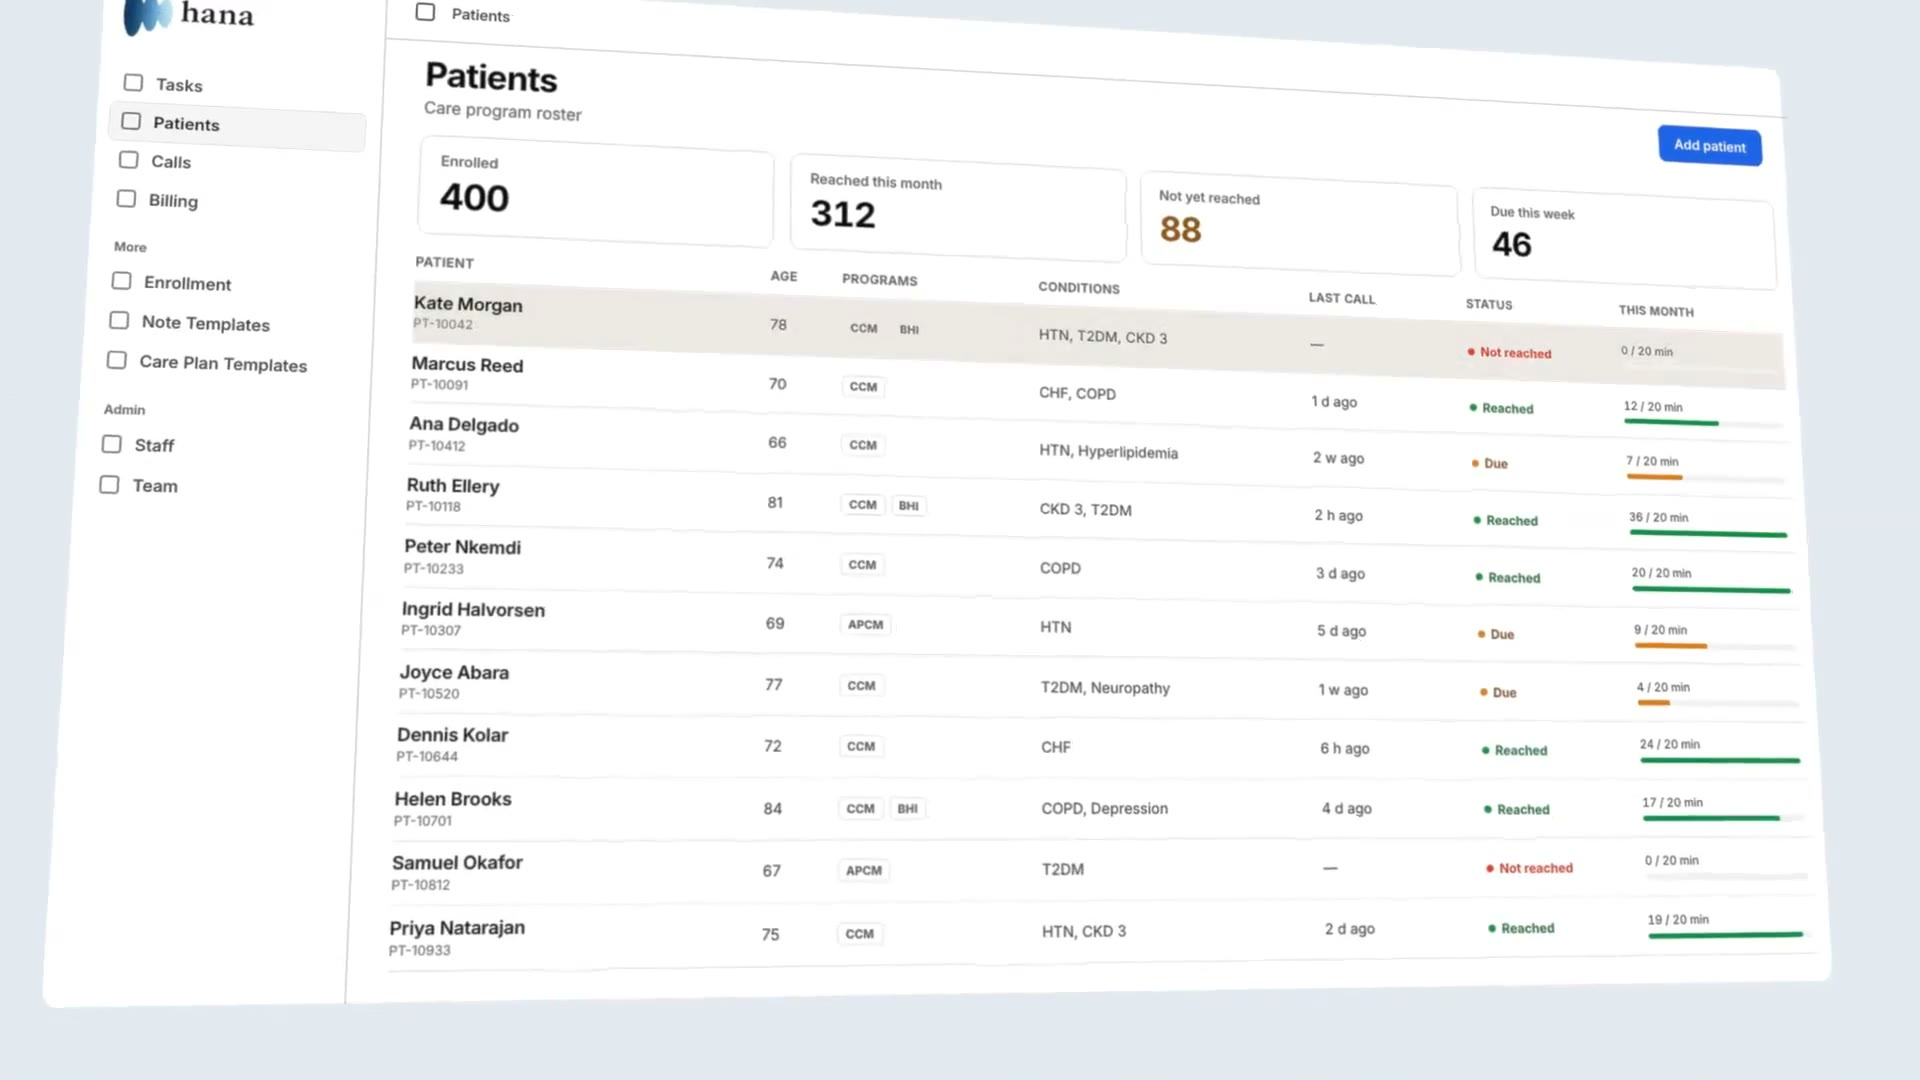
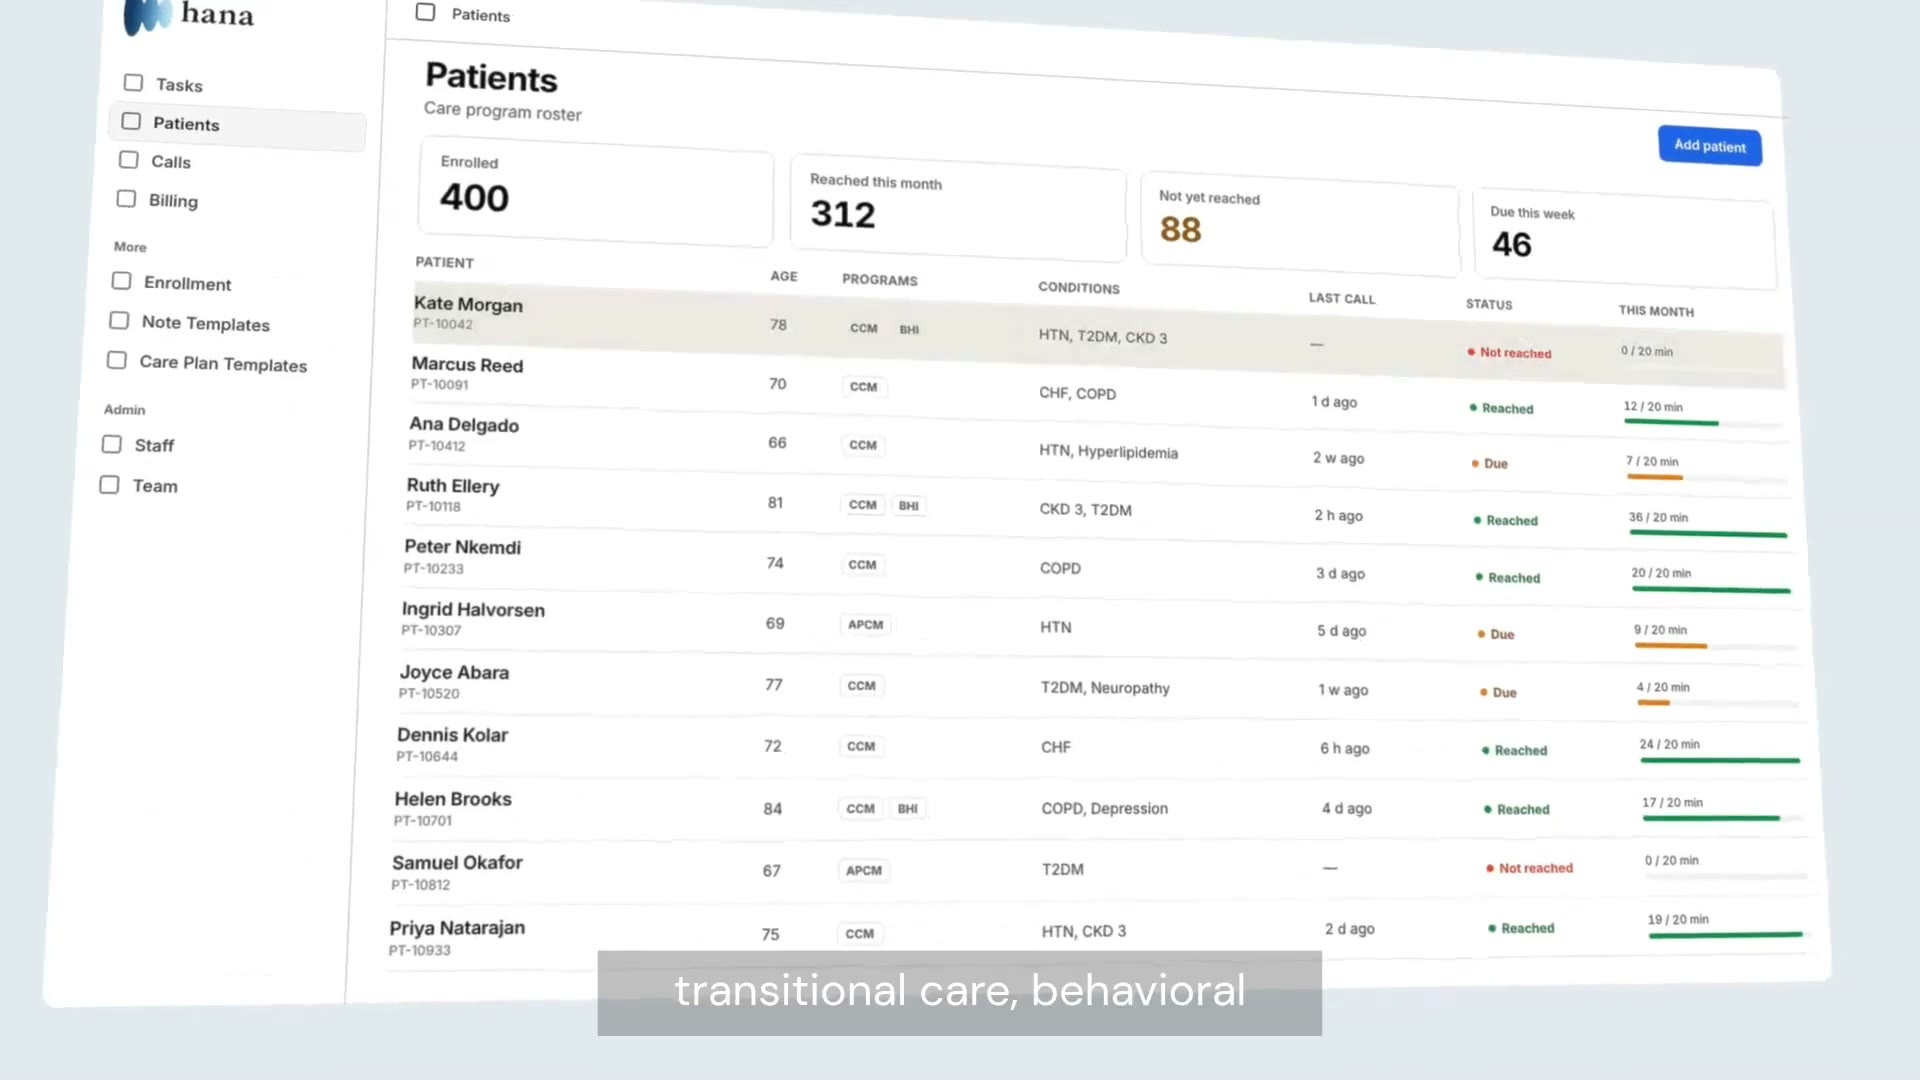
feat(video): muted autoplay on scroll, and the demo moves up under §2
TWO CHANGES ASKED FOR, plus the poster refreshed from the re-encode of the
higher-bitrate master (143MB source -> 16MB at 900kbps, 1080p, text verified
indistinguishable at 4x zoom on the Billing figures).

MOVED §3b -> §2b, directly under WHAT IS HANA. It sat after the loop, which
meant a reader met the three-way comparison, then borrowed proof, then a
diagram, before anything showed them the product. Under §2 the sequence is the
argument and then the evidence for it: here are three ways to run this and ours
is the third, now watch the third one happen. It also moves the only moving
thing on the page from five sections down to 11% of the way in. Grounds still
alternate white / band / white either side of it.

AUTOPLAY IS OPT-IN, MUTED, AND GATED ON SCROLL. The rule was previously "never
autoplays, not even muted", on the grounds that this page is read by compliance
officers in open-plan offices. THAT OBJECTION WAS ABOUT SOUND AND IT STILL
HOLDS -- nothing here ever plays audio unasked. What changed is the footage: the
re-export carries burned-in captions, so a muted play still communicates, which
it would not have when the file was a silent placeholder loop.

Four constraints it is built around, none of them cosmetic:
  MUTED OR NOTHING     every current browser blocks autoplay with audio, so
                       autoPlay implies muted; play() is still wrapped so a
                       rejection falls back to poster + play button rather than
[…]

Changed region(s): [[0.3125, 0.8556, 0.6875, 0.9778]]

diff --git a/src/app/components/sections/VideoSection.tsx b/src/app/components/sections/VideoSection.tsx
@@ -40,10 +40,31 @@ import { cn } from "../../../lib/utils";
  * frame because the native bar lives inside a dark frame and vanishes between
  * taps on some mobile browsers.
  *
- * IT NEVER AUTOPLAYS, not even muted. This page is read by compliance officers
- * in open-plan offices. That also means playback needs no reduced-motion case:
- * nothing moves until a person asks. useReducedMotion governs the entrance and
- * the glow only.
+ * AUTOPLAY IS OPT-IN, MUTED, AND GATED ON SCROLL. The rule here used to be
+ * "never autoplays, not even muted", on the grounds that this page is read by
+ * compliance officers in open-plan offices. That objection was about SOUND, and
+ * it still holds: nothing here ever plays audio unasked. What changed is the
+ * footage -- the demo now carries BURNED-IN CAPTIONS, so a muted play still
+ * communicates, which it would not have when the file was a silent loop with
+ * narration to come. Matteo asked for it on 8 Sept 2026 and it is defensible
+ * now in a way it was not before.
+ *
+ * FOUR CONSTRAINTS IT IS BUILT AROUND, none of them optional:
+ *  · MUTED OR NOTHING. Every current browser blocks autoplay with audio, so
+ *    `autoPlay` implies muted. play() is still wrapped: a rejection falls back
+ *    to the poster and the play button rather than leaving a dead frame.
+ *  · GATED ON INTERSECTION, NOT ON LOAD. The file is 16MB. Autoplaying at page
+ *    load would spend that on every visitor including the ones who never reach
+ *    the section. It starts at 45% visibility and PAUSES when scrolled away,
+ *    which also stops a decode running behind six other sections.
+ *  · REDUCED MOTION MEANS NO AUTOPLAY. A 2.5-minute moving image is exactly
+ *    what that preference is for, so the poster holds and the viewer presses
+ *    play. This is the reduced-motion case playback did not previously need.
+ *  · THE VIEWER MUST BE ABLE TO GET THE SOUND. There IS narration, so a muted
+ *    autoplay silently withholds half the content. The unmute control is
+ *    promoted into the frame while muted rather than sitting under it, and
+ *    unmuting once is remembered for the session so scrolling back does not
+ *    re-mute.
  *
  * PRERENDER SAFETY. preload="metadata" means the headless snapshot fetches a
  * few KB of container, not the file -- and for a remote URL it may fetch
@@ -123,6 +144,10 @@ export interface VideoSectionProps {
   note?: ReactNode;
   /** Length beside the play button, e.g. "1:20". Sets expectations. */
   duration?: string;
+  /** Start playing, muted, once the frame is 45% visible. Implies muted, is
+   *  ignored under prefers-reduced-motion, and pauses when scrolled away.
+   *  Only sensible for footage that reads without sound. */
+  autoPlay?: boolean;
   /** Centre the eyebrow, heading, body and note, and centre their measures.
    *  Left-aligned is the site default and stays the default; centring suits a
    *  section whose subject is one object under the text. */
@@ -156,6 +181,7 @@ export function VideoSection({
   body,
   note,
   duration,
+  autoPlay = false,
   align = "start",
   parallax = false,
   glow = true,
@@ -170,8 +196,38 @@ export function VideoSection({
   const [muted, setMuted] = useState(false);
   const [buffering, setBuffering] = useState(false);
   const [failed, setFailed] = useState(false);
+  /** True while autoplay is driving playback and the viewer has not unmuted. */
+  const [autoMuted, setAutoMuted] = useState(false);
 
   const sectionRef = useRef<HTMLElement>(null);
+  const figureRef = useRef<HTMLElement>(null);
+  /** Once the viewer unmutes, never re-mute on a later scroll-in. */
+  const unmutedOnce = useRef(false);
+
+  /* Scroll-gated muted autoplay. Deliberately keyed to the FIGURE rather than
+     the section, so it fires on the frame being visible and not on the heading
+     scrolling past. 45% keeps it from starting on a sliver. */
+  useEffect(() => {
+    if (!autoPlay || reduce) return;
+    const el = figureRef.current;
+    const v = videoRef.current;
+    if (!el || !v) return;
+    const obs = new IntersectionObserver(
+      ([e]) => {
+        const vid = videoRef.current;
+        if (!vid || failed) return;
+        if (e.isIntersecting) {
+          if (!unmutedOnce.current) { vid.muted = true; setAutoMuted(true); }
+          vid.play().catch(() => { setStarted(false); setAutoMuted(false); });
+        } else if (!vid.paused) {
+          vid.pause();
+        }
+      },
+      { threshold: 0.45 }
+    );
+    obs.observe(el);
+    return () => obs.disconnect();
+  }, [autoPlay, reduce, failed]);
 
   /* 0 as the section enters from the bottom, 1 as it leaves past the top, so
      0.5 is "centred" and every layer rests where it was designed to sit. */
@@ -292,7 +348,7 @@ export function VideoSection({
           )}
         </motion.div>
 
-        <motion.figure {...frameIn} className="m-0 relative">
+        <motion.figure ref={figureRef} {...frameIn} className="m-0 relative">
           {/* Ambient bloom: the poster again, scaled up, blurred, behind the
               frame. Decorative and inert. One <img> the browser has already
               cached for the poster, so it costs a paint and no extra request. */}
@@ -353,6 +409,27 @@ export function VideoSection({
               </button>
             )}
 
+            {/* THE UNMUTE PROMPT. A muted autoplay withholds the narration, so
+                this sits IN the frame rather than under it, and only while the
+                autoplay is the thing that muted it. Clicking it also sets
+                unmutedOnce, so scrolling away and back does not re-mute. */}
+            {autoMuted && started && !failed && (
+              <button
+                type="button"
+                onClick={() => {
+                  const v = videoRef.current;
+                  if (!v) return;
+                  v.muted = false;
+                  unmutedOnce.current = true;
+                  setAutoMuted(false);
+                }}
+                className="absolute bottom-4 left-1/2 -translate-x-1/2 z-10 inline-flex items-center gap-2 rounded-pill bg-paper-bright/95 px-5 py-2.5 text-[14px] font-semibold text-ink shadow-float backdrop-blur-sm hover:bg-paper-bright transition-colors focus-visible:outline-2 focus-visible:outline-offset-2 focus-visible:outline-brand"
+              >
+                <VolumeX size={15} className="text-brand" aria-hidden />
+                Tap for sound
+              </button>
+            )}
+
             {/* Buffering. The reason this exists: on a hosted file, play() can
                 take seconds before a frame moves, and a play button that
                 appears to do nothing gets tapped again. */}
@@ -407,7 +484,9 @@ export function VideoSection({
                 type="button"
                 onClick={() => {
                   const v = videoRef.current;
-                  if (v) v.muted = !v.muted;
+                  if (!v) return;
+                  v.muted = !v.muted;
+                  if (!v.muted) { unmutedOnce.current = true; setAutoMuted(false); }
                 }}
                 aria-label={muted ? "Unmute" : "Mute"}
                 className="inline-flex items-center gap-2 rounded-pill border border-rule bg-paper-bright px-4 py-2 text-[14px] font-semibold text-ink transition-colors hover:border-rule-strong focus-visible:outline-2 focus-visible:outline-offset-2 focus-visible:outline-brand"

diff --git a/src/app/pages/RemoteV2.tsx b/src/app/pages/RemoteV2.tsx
@@ -564,6 +564,30 @@ export function RemoteV2({
           replaces the WhyHana channel bars, which are one import away if wanted back */}
       <WhatIsHanaCompare />
 
+      {/* §2b THE VIDEO — moved up under §2 on 8 Sept 2026 (Matteo: "can you put
+          under section 2?"). It sat after the loop at §3b, which meant a reader
+          met the three-way comparison, then borrowed proof, then a diagram,
+          before anything showed them the product. Under §2 the sequence is the
+          argument and then the evidence for it: here are three ways to run this
+          and ours is the third, now watch the third one happen. It also puts the
+          only moving thing on the page above the fold-and-a-half rather than
+          five sections down. See EXPLAINER for the file and the encode. */}
+      <VideoSection
+        id="see-it-work"
+        tone="band"
+        align="center"
+        parallax
+        eyebrow="See it work"
+        heading={<>See the month <em>actually run.</em></>}
+        body="The loop above is the shape of it. This is a real call going out, the note landing in the chart, and the time attributed against the code."
+        autoPlay
+        src={EXPLAINER.src}
+        poster={EXPLAINER.poster}
+        aspect={EXPLAINER.aspect}
+        duration={EXPLAINER.duration}
+        note={<>Best with sound on. Your team reviews every note before anything bills.</>}
+      />
+
       {/* §2c PROOF — directly under What is Hana? (Matteo 2026-08-25) — the bento, kept as-is structurally (Matteo 2026-08-12: keep the
           same structure) but rendered in `soft` mode: gradient tiles instead of the
           navy checkerboard, and the decorative doodles dropped. */}
@@ -577,25 +601,7 @@ export function RemoteV2({
           stations didn't carry the practice-vs-HANA split) */}
       <HowItWorksLoop />
 
-      {/* §3b THE VIDEO — placed straight after the loop on purpose. The reader
-          has just been told how a month runs; this is the moment they want to
-          see one, and it is the last cheap moment before the page starts
-          asking for their number in §5. See EXPLAINER above for the
-          placeholder-file caveat. */}
-      <VideoSection
-        id="see-it-work"
-        tone="band"
-        align="center"
-        parallax
-        eyebrow="See it work"
-        heading={<>See the month <em>actually run.</em></>}
-        body="The loop above is the shape of it. This is a real call going out, the note landing in the chart, and the time attributed against the code."
-        src={EXPLAINER.src}
-        poster={EXPLAINER.poster}
-        aspect={EXPLAINER.aspect}
-        duration={EXPLAINER.duration}
-        note={<>Best with sound on. Your team reviews every note before anything bills.</>}
-      />
+
 
       {/* §3c was the 85% reached-by-channel column. Pulled 2026-08-19 (call):
           §2's three-way comparison already does the comparing, and comparing
